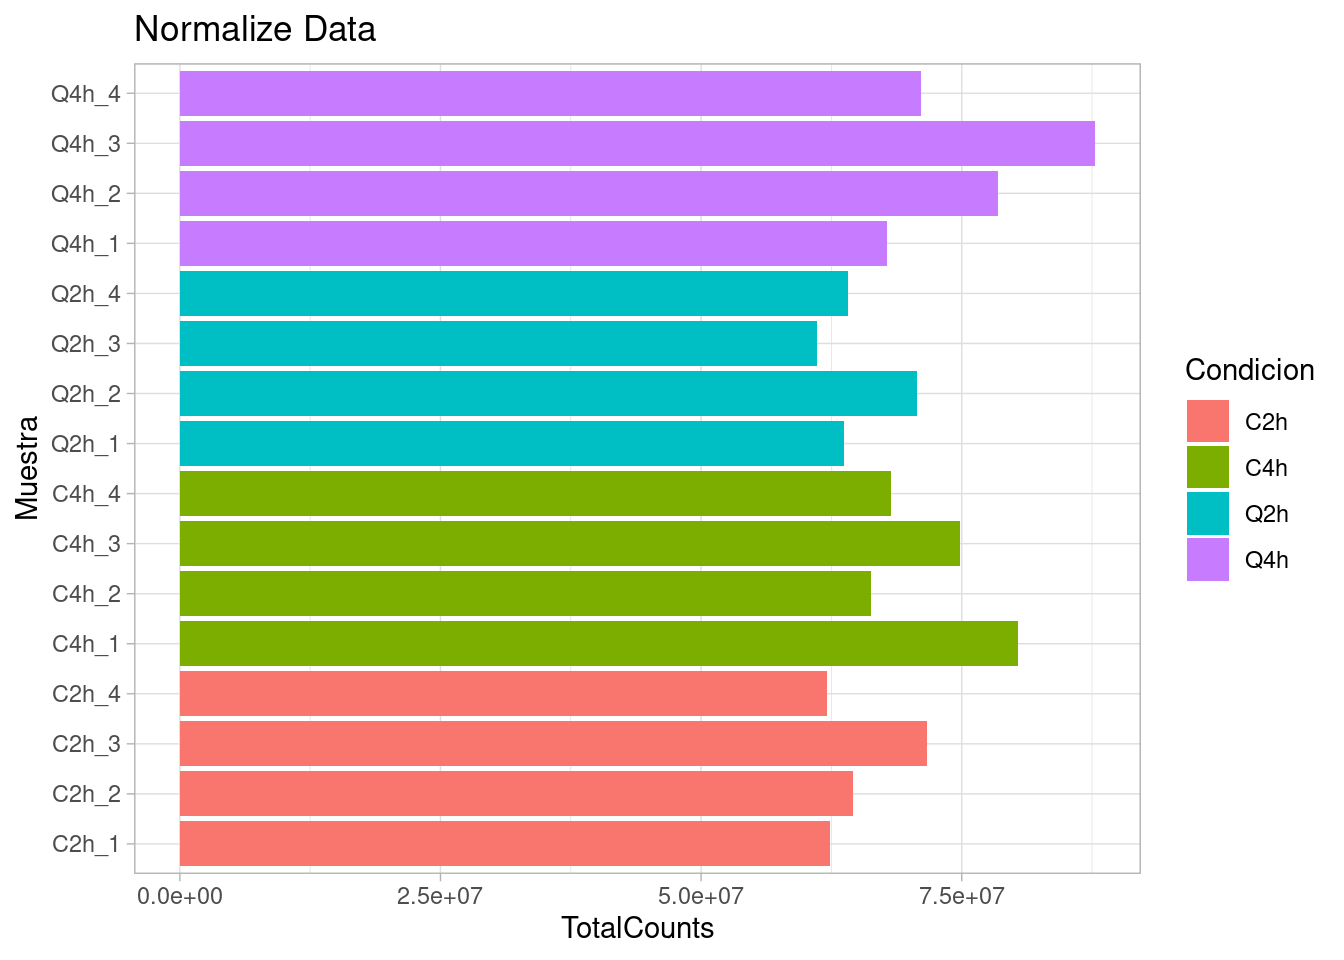
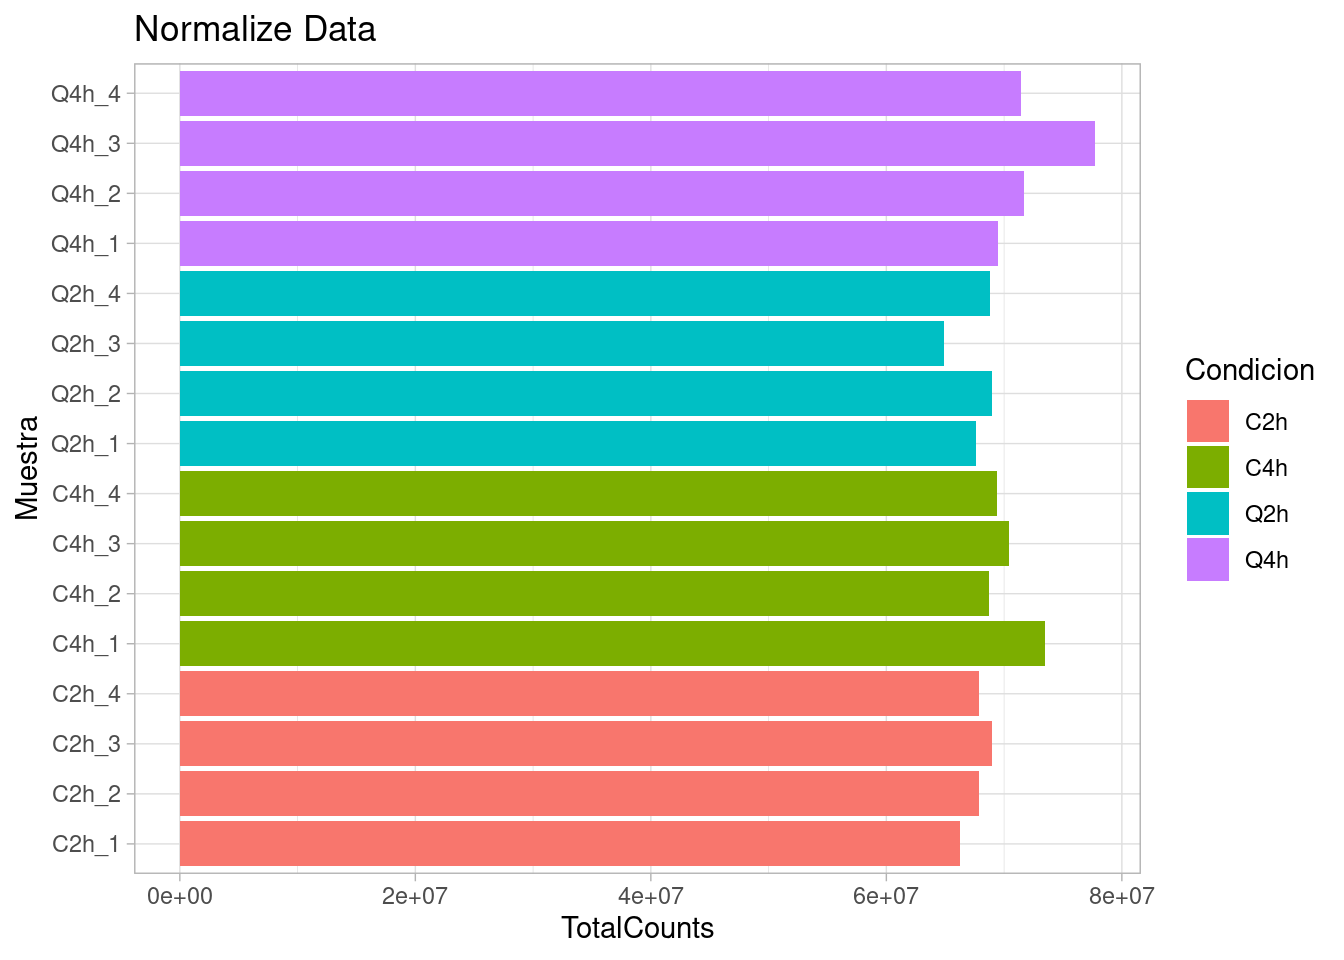
update QC

diff --git a/QualityControl_ElenaMartin.html b/QualityControl_ElenaMartin.html
@@ -7,7 +7,7 @@
 <meta name="viewport" content="width=device-width, initial-scale=1.0, user-scalable=yes">
 
 
-<title>PCA y mas</title>
+<title>QC Secundario del RNASEQ</title>
 <style>
 code{white-space: pre-wrap;}
 span.smallcaps{font-variant: small-caps;}
@@ -79,7 +79,7 @@ pre > code.sourceCode > span > a:first-child::before { text-decoration: underlin
 
 <header id="title-block-header" class="quarto-title-block default">
 <div class="quarto-title">
-<h1 class="title">PCA y mas</h1>
+<h1 class="title">QC Secundario del RNASEQ</h1>
 </div>
 
 
@@ -238,7 +238,7 @@ Adjuntando el paquete: 'Biobase'</code></pre>
 </div>
 <p><strong>DATOS</strong></p>
 <div class="cell">
-<div class="sourceCode cell-code" id="cb28"><pre class="sourceCode r code-with-copy"><code class="sourceCode r"><span id="cb28-1"><a href="#cb28-1" aria-hidden="true" tabindex="-1"></a>reads_genes <span class="ot">&lt;-</span> <span class="fu">read_tsv</span>(<span class="st">"/home/jaime/Escritorio/Resultados_UCA-GT/S-11-2024_RNASeq_ElenaMartin/RNASEQ_ElenaMartin/star_salmon/salmon.merged.gene_counts_scaled.tsv"</span>) <span class="sc">%&gt;%</span> </span>
+<div class="sourceCode cell-code" id="cb28"><pre class="sourceCode r code-with-copy"><code class="sourceCode r"><span id="cb28-1"><a href="#cb28-1" aria-hidden="true" tabindex="-1"></a>reads_genes <span class="ot">&lt;-</span> <span class="fu">read_tsv</span>(<span class="st">"/home/jaime/Escritorio/Resultados_UCA-GT/S-11-2024_RNASeq_ElenaMartin/RNASEQ_ElenaMartin/star_salmon/salmon.merged.gene_counts_length_scaled.tsv"</span>) <span class="sc">%&gt;%</span> </span>
 <span id="cb28-2"><a href="#cb28-2" aria-hidden="true" tabindex="-1"></a>  <span class="fu">rename</span>(<span class="st">"C2h_1"</span> <span class="ot">=</span> X1) <span class="sc">%&gt;%</span></span>
 <span id="cb28-3"><a href="#cb28-3" aria-hidden="true" tabindex="-1"></a>  <span class="fu">rename</span>(<span class="st">"C2h_2"</span> <span class="ot">=</span> X2) <span class="sc">%&gt;%</span> </span>
 <span id="cb28-4"><a href="#cb28-4" aria-hidden="true" tabindex="-1"></a>  <span class="fu">rename</span>(<span class="st">"C2h_3"</span> <span class="ot">=</span> X3) <span class="sc">%&gt;%</span> </span>
@@ -314,7 +314,7 @@ chr (3): Transcrip_ID, Gene_ID, Gene_Name
 <span id="cb35-7"><a href="#cb35-7" aria-hidden="true" tabindex="-1"></a>                 <span class="st">"entrezgene_id"</span>,<span class="st">"gene_biotype"</span>,<span class="st">"transcript_biotype"</span>),</span>
 <span id="cb35-8"><a href="#cb35-8" aria-hidden="true" tabindex="-1"></a>  <span class="at">mart =</span> mart)</span></code><button title="Copy to Clipboard" class="code-copy-button"><i class="bi"></i></button></pre></div>
 </div>
-<p>Quality Control from the primary analysis could be found here:</p>
+<p>El QC del análisis primario puede encontrarse a continuación:</p>
 <p><a href="https://jdiazp00.github.io/RNASEQ_ElenaMartin_Final/multiqc_report.html" class="uri">https://jdiazp00.github.io/RNASEQ_ElenaMartin_Final/multiqc_report.html</a></p>
 <section id="transcript-level" class="level1">
 <h1><strong>Transcript Level</strong></h1>
@@ -435,28 +435,36 @@ design formula are characters, converting to factors</code></pre>
 <pre><code>Square root transformation
 Wisconsin double standardization
 Run 0 stress 0.1486428 
-Run 1 stress 0.1510672 
-Run 2 stress 0.1930743 
-Run 3 stress 0.1547345 
-Run 4 stress 0.1761459 
-Run 5 stress 0.1510673 
-Run 6 stress 0.1839065 
-Run 7 stress 0.1777146 
-Run 8 stress 0.3592579 
-Run 9 stress 0.2085777 
-Run 10 stress 0.1547345 
-Run 11 stress 0.1978363 
-Run 12 stress 0.1693745 
-Run 13 stress 0.1486428 
-... Procrustes: rmse 2.52763e-05  max resid 5.491199e-05 
+Run 1 stress 0.1693741 
+Run 2 stress 0.2069403 
+Run 3 stress 0.1698455 
+Run 4 stress 0.1606163 
+Run 5 stress 0.1547345 
+Run 6 stress 0.1547345 
+Run 7 stress 0.1693741 
+Run 8 stress 0.1486428 
+... Procrustes: rmse 2.340761e-05  max resid 4.97308e-05 
 ... Similar to previous best
-Run 14 stress 0.1866155 
-Run 15 stress 0.1839065 
-Run 16 stress 0.2021803 
-Run 17 stress 0.1976577 
-Run 18 stress 0.1767339 
-Run 19 stress 0.1547345 
-Run 20 stress 0.1610451 
+Run 9 stress 0.1606163 
+Run 10 stress 0.1767338 
+Run 11 stress 0.1486428 
+... New best solution
+... Procrustes: rmse 6.303731e-06  max resid 1.202454e-05 
+... Similar to previous best
+Run 12 stress 0.1486428 
+... Procrustes: rmse 3.528255e-06  max resid 9.318742e-06 
+... Similar to previous best
+Run 13 stress 0.1744149 
+Run 14 stress 0.1837695 
+Run 15 stress 0.175976 
+Run 16 stress 0.1547345 
+Run 17 stress 0.212767 
+Run 18 stress 0.1510673 
+Run 19 stress 0.1486428 
+... New best solution
+... Procrustes: rmse 1.268292e-05  max resid 2.545902e-05 
+... Similar to previous best
+Run 20 stress 0.1510672 
 *** Best solution repeated 1 times</code></pre>
 </div>
 </div>
@@ -696,38 +704,38 @@ design formula are characters, converting to factors</code></pre>
 <div class="cell-output cell-output-stdout">
 <pre><code>Square root transformation
 Wisconsin double standardization
-Run 0 stress 0.1519428 
-Run 1 stress 0.1523052 
-... Procrustes: rmse 0.1412944  max resid 0.3486932 
-Run 2 stress 0.164157 
-Run 3 stress 0.1519428 
+Run 0 stress 0.1506497 
+Run 1 stress 0.1547228 
+Run 2 stress 0.2036671 
+Run 3 stress 0.1506497 
 ... New best solution
-... Procrustes: rmse 3.195933e-05  max resid 9.221148e-05 
+... Procrustes: rmse 1.690942e-05  max resid 3.058963e-05 
 ... Similar to previous best
-Run 4 stress 0.1523052 
-... Procrustes: rmse 0.1412897  max resid 0.3486681 
-Run 5 stress 0.1907956 
-Run 6 stress 0.1828607 
-Run 7 stress 0.1523052 
-... Procrustes: rmse 0.1412889  max resid 0.3486712 
-Run 8 stress 0.1944537 
-Run 9 stress 0.1523052 
-... Procrustes: rmse 0.14129  max resid 0.3486755 
-Run 10 stress 0.1508714 
-... New best solution
-... Procrustes: rmse 0.06063159  max resid 0.2124008 
-Run 11 stress 0.1948191 
-Run 12 stress 0.1556716 
-Run 13 stress 0.1828607 
-Run 14 stress 0.2171197 
-Run 15 stress 0.1948192 
-Run 16 stress 0.1523052 
-Run 17 stress 0.1519428 
-Run 18 stress 0.195795 
-Run 19 stress 0.1523052 
-Run 20 stress 0.195795 
-*** Best solution was not repeated -- monoMDS stopping criteria:
-    20: stress ratio &gt; sratmax</code></pre>
+Run 4 stress 0.1506497 
+... Procrustes: rmse 5.230638e-05  max resid 0.0001017412 
+... Similar to previous best
+Run 5 stress 0.1547228 
+Run 6 stress 0.1547228 
+Run 7 stress 0.1913581 
+Run 8 stress 0.1833996 
+Run 9 stress 0.1506497 
+... Procrustes: rmse 1.978912e-05  max resid 6.308966e-05 
+... Similar to previous best
+Run 10 stress 0.1506971 
+... Procrustes: rmse 0.06105147  max resid 0.2175244 
+Run 11 stress 0.1541259 
+Run 12 stress 0.1547228 
+Run 13 stress 0.1642491 
+Run 14 stress 0.164249 
+Run 15 stress 0.2592136 
+Run 16 stress 0.1911224 
+Run 17 stress 0.2796412 
+Run 18 stress 0.1541259 
+Run 19 stress 0.191293 
+Run 20 stress 0.1506497 
+... Procrustes: rmse 0.0001108924  max resid 0.0002321802 
+... Similar to previous best
+*** Best solution repeated 4 times</code></pre>
 </div>
 </div>
 <div class="cell">
@@ -773,15 +781,15 @@ Run 20 stress 0.195795
 <span id="cb96-12"><a href="#cb96-12" aria-hidden="true" tabindex="-1"></a>  <span class="fu">theme_light</span>() <span class="sc">+</span> </span>
 <span id="cb96-13"><a href="#cb96-13" aria-hidden="true" tabindex="-1"></a>  <span class="fu">labs</span>(<span class="at">title =</span> <span class="st">"Volcano Plot Grupo_X_vs_P"</span>) </span></code><button title="Copy to Clipboard" class="code-copy-button"><i class="bi"></i></button></pre></div>
 <div class="cell-output cell-output-stderr">
-<pre><code>Warning: Removed 3 rows containing missing values or values outside the scale range
+<pre><code>Warning: Removed 739 rows containing missing values or values outside the scale range
 (`geom_point()`).</code></pre>
 </div>
 <div class="cell-output cell-output-stderr">
-<pre><code>Warning: Removed 59177 rows containing missing values or values outside the scale range
+<pre><code>Warning: Removed 58726 rows containing missing values or values outside the scale range
 (`geom_text_repel()`).</code></pre>
 </div>
 <div class="cell-output cell-output-stderr">
-<pre><code>Warning: ggrepel: 2947 unlabeled data points (too many overlaps). Consider
+<pre><code>Warning: ggrepel: 3418 unlabeled data points (too many overlaps). Consider
 increasing max.overlaps</code></pre>
 </div>
 <div class="cell-output-display">
@@ -808,15 +816,15 @@ increasing max.overlaps</code></pre>
 <span id="cb100-13"><a href="#cb100-13" aria-hidden="true" tabindex="-1"></a>  <span class="fu">theme_light</span>() <span class="sc">+</span> </span>
 <span id="cb100-14"><a href="#cb100-14" aria-hidden="true" tabindex="-1"></a>  <span class="fu">labs</span>(<span class="at">title =</span> <span class="st">"MA Plot Grupo_X_vs_P"</span>)</span></code><button title="Copy to Clipboard" class="code-copy-button"><i class="bi"></i></button></pre></div>
 <div class="cell-output cell-output-stderr">
-<pre><code>Warning: Removed 3 rows containing missing values or values outside the scale range
+<pre><code>Warning: Removed 739 rows containing missing values or values outside the scale range
 (`geom_point()`).</code></pre>
 </div>
 <div class="cell-output cell-output-stderr">
-<pre><code>Warning: Removed 59177 rows containing missing values or values outside the scale range
+<pre><code>Warning: Removed 58726 rows containing missing values or values outside the scale range
 (`geom_text_repel()`).</code></pre>
 </div>
 <div class="cell-output cell-output-stderr">
-<pre><code>Warning: ggrepel: 2966 unlabeled data points (too many overlaps). Consider
+<pre><code>Warning: ggrepel: 3435 unlabeled data points (too many overlaps). Consider
 increasing max.overlaps</code></pre>
 </div>
 <div class="cell-output-display">
